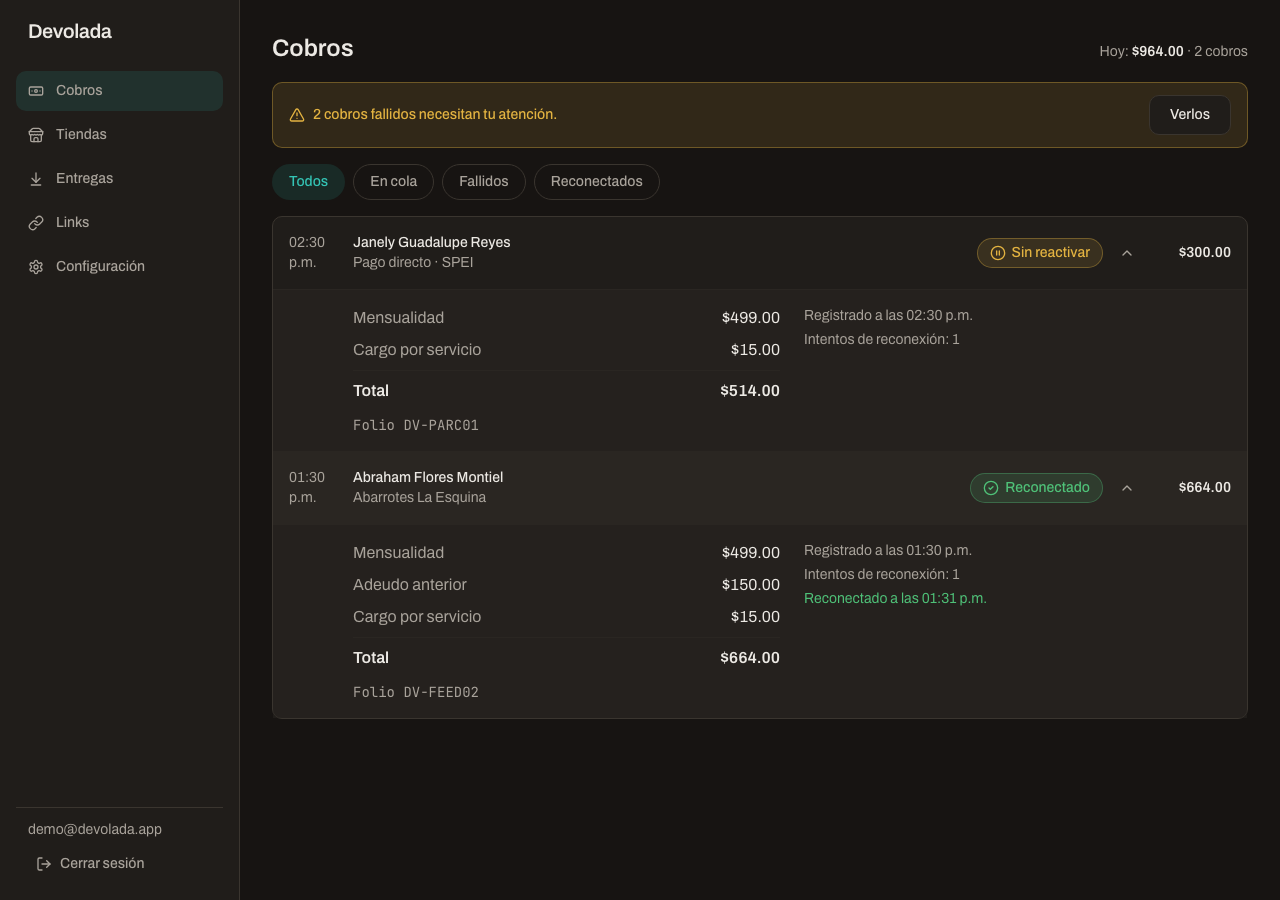
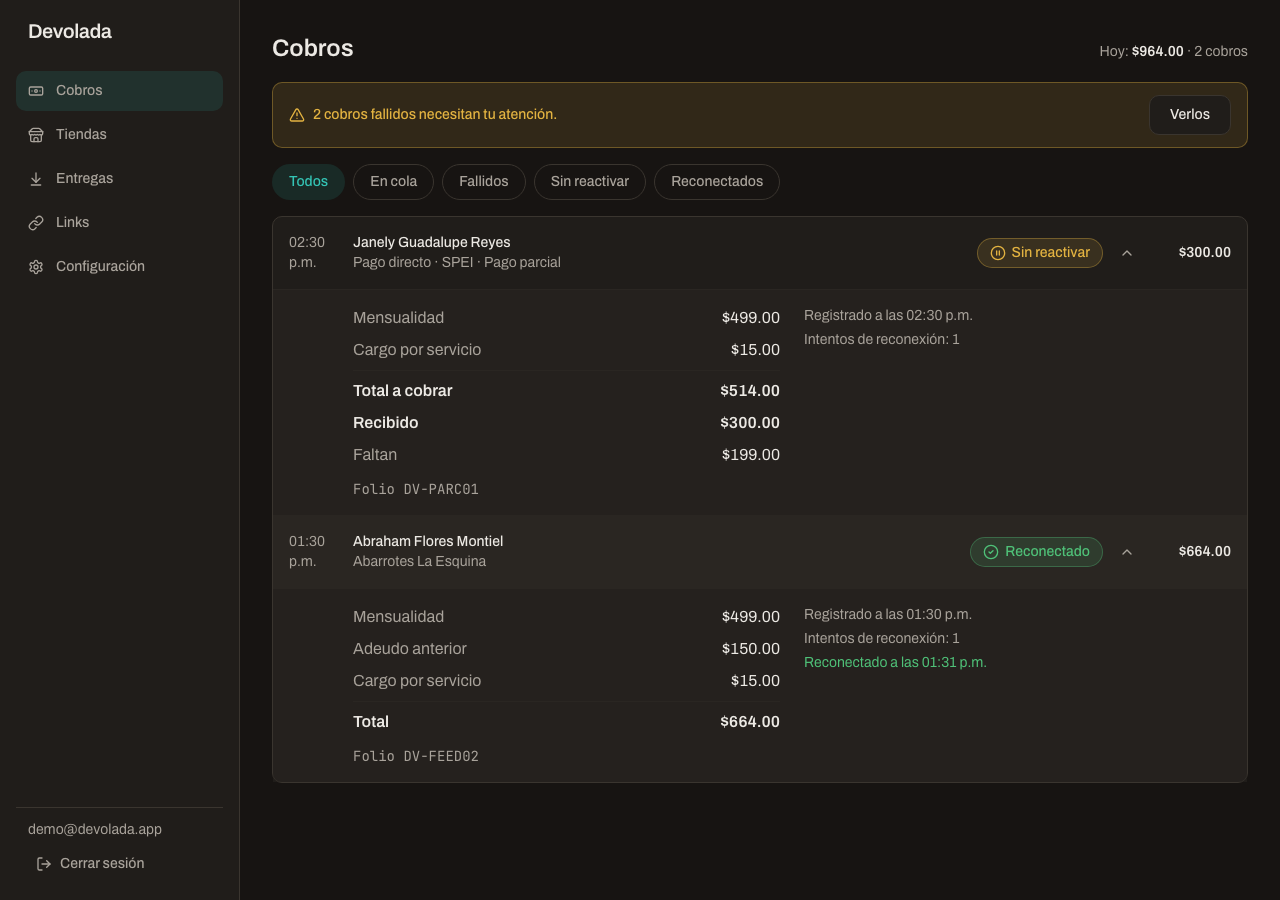
The feed names what arrived and what is missing, instead of two totals that disagree
A partial charge's row said $300.00 while its expanded breakdown derived
"Total $514.00" from the ask — two totals on one card, nothing naming
the gap. D15: the detail keeps the ask under its honest name ("Total a
cobrar") and adds "Recibido" and "Faltan", the same missing figure the
payer's page shows, all derived from fields the row already carries. The
channel line wears "Pago parcial" (a lenient-threshold partial would
otherwise pass for a full payment behind its green badge), and the
status chips gain "Sin reactivar".

Claude-Session: https://claude.ai/code/session_01Wi9TKF6sYgfppVJLRa5TK8

diff --git a/apps/admin/src/features/feed/FeedScreen.tsx b/apps/admin/src/features/feed/FeedScreen.tsx
@@ -30,6 +30,9 @@ const statusFilters = [
   { value: ALL, label: "Todos" },
   { value: "queued", label: "En cola" },
   { value: "failed", label: "Fallidos" },
+  /* partial-payment D15: money that arrived without buying a
+     reconnection is what an ISP audits — it gets its own chip. */
+  { value: "withheld", label: "Sin reactivar" },
   { value: "reconnected", label: "Reconectados" },
 ] as const;
 
@@ -55,6 +58,17 @@ const reasonFor = (code: string) => reasons[code] ?? "WispHub no respondió. Lo 
 function ChargeRow({ charge }: { charge: FeedCharge }) {
   const { timeFormat, timezone } = useDisplaySettings();
   const at = (ms: number) => formatTime(ms, timeFormat, timezone);
+  /* partial-payment D15: `totalCents` is what arrived (D9); the other
+     three fields are what was asked. A short payment is the difference,
+     derived here — no wire field carries it. `missingCents` matches the
+     payer's page exactly: below the debt no fee is covered (D3), so the
+     ISP and the payer quote the same figure. */
+  const askCents = charge.invoiceCents + charge.carriedBalanceCents + charge.serviceFeeCents;
+  const shortCents = askCents - charge.totalCents;
+  const missingCents = Math.max(
+    0,
+    charge.invoiceCents + charge.carriedBalanceCents - charge.totalCents,
+  );
   return (
     <li>
       <Collapsible>
@@ -70,8 +84,12 @@ function ChargeRow({ charge }: { charge: FeedCharge }) {
             <span className="block text-sm font-medium">{charge.customerName}</span>
             {/* US-D06: a direct payment has no store — the channel is
                 named instead, so both kinds stay distinguishable */}
+            {/* D15: the label, not only the badge — a partial that
+                reconnected under a lenient threshold wears a green
+                "Reconectado" and would otherwise pass for a full payment */}
             <span className="block text-sm text-muted-foreground">
               {charge.channel === "spei" ? "Pago directo · SPEI" : charge.storeName}
+              {missingCents > 0 && " · Pago parcial"}
             </span>
           </span>
           <Amount
@@ -90,6 +108,9 @@ function ChargeRow({ charge }: { charge: FeedCharge }) {
           <div className="grid gap-6 border-t border-line-soft bg-muted/50 p-4 pl-20 sm:grid-cols-2">
             <div>
               <AmountBreakdown
+                /* D15: with "Recibido" below, the derived sum needs its
+                   honest name — it is the ask, not what arrived */
+                totalLabel={shortCents > 0 ? "Total a cobrar" : "Total"}
                 lines={[
                   { label: "Mensualidad", cents: charge.invoiceCents },
                   /* debt-truth D11: its own line, so the ISP can see why
@@ -100,6 +121,24 @@ function ChargeRow({ charge }: { charge: FeedCharge }) {
                   { label: "Cargo por servicio", cents: charge.serviceFeeCents },
                 ]}
               />
+              {shortCents > 0 && (
+                <dl className="mt-2 space-y-2 text-base">
+                  <div className="flex justify-between gap-4 font-semibold">
+                    <dt>Recibido</dt>
+                    <dd>
+                      <Amount cents={charge.totalCents} />
+                    </dd>
+                  </div>
+                  {missingCents > 0 && (
+                    <div className="flex justify-between gap-4">
+                      <dt className="text-muted-foreground">Faltan</dt>
+                      <dd>
+                        <Amount cents={missingCents} />
+                      </dd>
+                    </div>
+                  )}
+                </dl>
+              )}
               <p className="mt-3 font-mono text-sm text-muted-foreground">Folio {charge.folio}</p>
             </div>
             <div className="text-sm text-muted-foreground">

diff --git a/apps/admin/test/feed.test.tsx b/apps/admin/test/feed.test.tsx
@@ -112,3 +112,84 @@ describe("D5: the status chips re-query the feed", () => {
     expect(seen).toContain("failed");
   });
 });
+
+/* docs/direct-payment/partial-payment.spec.md scenario 14 (US-D10, D15):
+   `totalCents` is what arrived, the other fields are what was asked, and
+   the detail has to name the difference — the row header and a derived
+   breakdown total disagreed on the same card with nothing in between. */
+describe("US-D10: a short payment explains itself in the feed", () => {
+  /* $300.00 arrived against a $514.00 ask ($499.00 of ISP debt) */
+  const partial = charge({
+    id: "ch-p1",
+    folio: "DV-PARC01",
+    channel: "spei" as const,
+    storeName: null,
+    reconnectionStatus: "withheld" as const,
+    totalCents: 30000,
+    invoiceCents: 49900,
+    reconnectedAt: null,
+  });
+
+  it("scenario 14: the detail shows the ask, the received amount and the missing figure", async () => {
+    server.use(
+      handlers.session(() => ok(ispActor)),
+      handlers.feed((url) =>
+        ok(feedOf(url.searchParams.get("status") === "failed" ? [] : [partial])),
+      ),
+    );
+    renderApp("/");
+
+    const row = await screen.findByRole("button", { name: /janely/i });
+    /* the label, not only the badge: a partial that reconnected would
+       wear a green "Reconectado" and pass for a full payment */
+    expect(within(row).getByText(/pago directo · spei · pago parcial/i)).toBeInTheDocument();
+    expect(within(row).getByText("Sin reactivar")).toBeInTheDocument();
+
+    await userEvent.click(row);
+    /* the ask keeps its breakdown, under its honest name */
+    expect(await screen.findByText("Total a cobrar")).toBeInTheDocument();
+    expect(screen.getByText("$514.00")).toBeInTheDocument();
+    /* what arrived and what is missing — the same figure the payer's
+       page shows, so both sides quote the same number on the phone */
+    expect(screen.getByText("Recibido")).toBeInTheDocument();
+    expect(screen.getByText("Faltan")).toBeInTheDocument();
+    expect(screen.getByText("$199.00")).toBeInTheDocument();
+  });
+
+  it("a full payment keeps its plain breakdown", async () => {
+    server.use(
+      handlers.session(() => ok(ispActor)),
+      handlers.feed((url) =>
+        ok(feedOf(url.searchParams.get("status") === "failed" ? [] : [charge()])),
+      ),
+    );
+    renderApp("/");
+
+    const row = await screen.findByRole("button", { name: /janely/i });
+    expect(within(row).queryByText(/pago parcial/i)).not.toBeInTheDocument();
+
+    await userEvent.click(row);
+    expect(await screen.findByText("Total")).toBeInTheDocument();
+    expect(screen.queryByText("Total a cobrar")).not.toBeInTheDocument();
+    expect(screen.queryByText("Recibido")).not.toBeInTheDocument();
+    expect(screen.queryByText("Faltan")).not.toBeInTheDocument();
+  });
+
+  it("the 'Sin reactivar' chip requests status=withheld", async () => {
+    const seen: (string | null)[] = [];
+    server.use(
+      handlers.session(() => ok(ispActor)),
+      handlers.feed((url) => {
+        seen.push(url.searchParams.get("status"));
+        return ok(feedOf([partial]));
+      }),
+    );
+    renderApp("/");
+    await screen.findByRole("button", { name: /janely/i });
+
+    await userEvent.click(screen.getByRole("tab", { name: "Sin reactivar" }));
+    await screen.findByRole("button", { name: /janely/i });
+
+    expect(seen).toContain("withheld");
+  });
+});

diff --git a/docs/direct-payment/partial-payment.spec.md b/docs/direct-payment/partial-payment.spec.md
@@ -33,6 +33,8 @@ The customer owes the monthly fee plus a reconnection charge and transfers only 
 
 - **D14 — The fee is a receivable against the ISP, not a slice of the transfer. The commission is never forgiven.** On this channel every peso the payer sends lands in the **ISP's own bank account** — Devolada never touches the money (direct-payment D4). So what Devolada holds is not a cut taken out of the transfer; it is a debt the ISP accumulates transaction by transaction and settles through the monthly statement (`platform/settlement.spec.md` D1, which derives the share from `charges.service_fee_cents`). That is true whichever way the fee switch points: if the **ISP** absorbs the fee, the ISP keeps everything the payer sent and owes Devolada the fee; if the **payer** covers it, the payer's extra pesos landed in the ISP's account too, so the ISP owes them onward. The physical receiver of the money is the debtor, always. **The consequence for a short payment is the one that had to be written down:** D3's waterfall — the ISP's debt first, our fee last — decides how much of the transfer reaches WispHub's books, and **decides nothing about what Devolada earned**. A payer who covers the mensualidad and none of the fee is reconnected, the ISP is made whole in WispHub, and the fee still accrues; the ISP absorbs the difference, which is the same thing they signed up for when the switch defaults to them paying it anyway. **Rejected**: letting the shortfall cancel the fee, which is what the first implementation did — `service_fee_cents` was written as "whatever was left over", so the statement quietly under-counted and Devolada forgave its own commission on every short payment, for a service it had already rendered and paid provider credits for.
 
+- **D15 — The feed explains a short payment with the numbers it already has (2026-08-25, from the design review).** A charge created by D9 records what **arrived** (`totalCents`) while `invoiceCents`, `carriedBalanceCents` and `serviceFeeCents` keep what was **asked** — so the expanded row derived a "Total $514.00" from its breakdown lines under a row header that said $300.00: two totals on one card, and nothing naming the gap. The detail now derives the difference in plain code, with **no wire change**: when `totalCents` falls short of the ask, the breakdown's total is labeled **"Total a cobrar"** and two lines follow — **"Recibido"** (the row's own amount) and, when the ISP's debt itself is short, **"Faltan"** with `invoiceCents + carriedBalanceCents − totalCents`. That is the same `missingCents` the payer's page shows (D3's waterfall guarantees it: below the debt no fee is covered, at or above it nothing is missing), so the ISP and the payer quote the same figure on the phone. The channel line carries the **"Pago parcial"** label for rows whose debt is short — a partial that reconnected under a lenient threshold wears a green "Reconectado" badge and would otherwise be indistinguishable from a full payment. The status chips gain **"Sin reactivar"**: money that arrived without buying a reconnection is precisely what an ISP audits, and it was reachable only by scrolling "Todos". **Rejected**: new wire fields (`receivedCents`/`missingCents` on `feedCharge`) — every number is derivable from what the row already carries; making the received amount the breakdown's own total (it hides what was asked, which is the question the tap opens).
+
 ## Schema
 
 ### Alter `isps`
@@ -58,7 +60,7 @@ The customer owes the monthly fee plus a reconnection charge and transfers only 
 
 `GET /direct-payments/:id/status` — `status` may now be `partial`, and the response carries `receivedCents`, `debtCents` and `missingCents` so the page can render D7's copy without doing arithmetic of its own.
 
-Admin feed: a `partial` payment appears with its own label — *"pago parcial"* — never inside the `confirmed` count.
+Admin feed: a `partial` payment appears with its own label — *"Pago parcial"* — never inside the `confirmed` count, and its detail shows what was asked, what arrived and what is missing (D15). `GET /charges/feed` accepts `status=withheld` and the UI ships the chip for it.
 
 ## UI Contract
 
@@ -81,6 +83,7 @@ Admin feed: a `partial` payment appears with its own label — *"pago parcial"* 
 11. The receipt's amount is what travels to Banxico, and it is kept on the row (US-D10, D12)
 12. A withheld reconnection is terminal: the sweep never touches it and the ISP's feed reads "Sin reactivar", not "Fallido" (D13)
 13. A short payment accrues the **whole** fee to the platform statement, even when the payer covered none of it (US-L01, D14)
+14. UI: a short payment's feed detail shows "Total a cobrar", "Recibido" and "Faltan" — the same missing figure the payer sees — the row is labeled "Pago parcial", the "Sin reactivar" chip requests `status=withheld`, and a full payment's breakdown stays untouched (US-D10, D15)
 
 ## Definition of Done
 

diff --git a/docs/admin/charge-feed.spec.md b/docs/admin/charge-feed.spec.md
@@ -24,12 +24,13 @@ The Cobros section: the ISP watches money come in, in near real time, with the r
 
 `GET /charges/feed` (session cookie, **ISP only**)
 
-Query: `cursor` (ms) · `status` (`queued|reconnected|failed`) · `storeId` · `from`/`to` (ms)
+Query: `cursor` (ms) · `status` (`queued|reconnected|failed|withheld` — `withheld` added 2026-08-25 by `direct-payment/partial-payment.spec.md` D13/D15) · `storeId` · `from`/`to` (ms)
 
 ```
-{ charges: [ { id, folio, reconnectionStatus, totalCents, monthlyFeeCents,
+{ charges: [ { id, folio, channel, reconnectionStatus, totalCents,
+               invoiceCents, carriedBalanceCents,   // renamed/added by charges/debt-truth D13
                serviceFeeCents, customerName, storeName, createdAt,
-               reconnectedAt, attempts } ],
+               reconnectedAt, attempts, lastError } ],
   nextCursor: number | null,
   today: { count, totalCents, startedAtMs } }  // the day starts in the ISP's timezone (settings D5)
 ```
@@ -38,8 +39,8 @@ Newest first, 20 per page. 401/403 as usual; a store session gets 403.
 
 ## UI Contract
 
-- Cobros section (`src/features/feed/`): today strip ("Hoy: $X · N cobros"), the failed-attention strip (D3), status filter chips (Todos · En cola · Fallidos · Reconectados), the list with time, customer, store, `StatusBadge` and amount, refreshing every 5s (`aria-live`).
-- Row tap expands: `AmountBreakdown`, folio in mono, and the timeline (registrado → intentos → reconectado/fallido con horas).
+- Cobros section (`src/features/feed/`): today strip ("Hoy: $X · N cobros"), the failed-attention strip (D3), status filter chips (Todos · En cola · Fallidos · Sin reactivar · Reconectados — the fourth added 2026-08-25 by `direct-payment/partial-payment.spec.md` D15), the list with time, customer, store, `StatusBadge` and amount, refreshing every 5s (`aria-live`).
+- Row tap expands: `AmountBreakdown`, folio in mono, and the timeline (registrado → intentos → reconectado/fallido con horas). A short payment's detail adds "Recibido"/"Faltan" and the row wears "Pago parcial" (`partial-payment` D15).
 - Mobile: rows stay readable as stacked cards. "Cargar más" pagination.
 
 ## Scenarios
